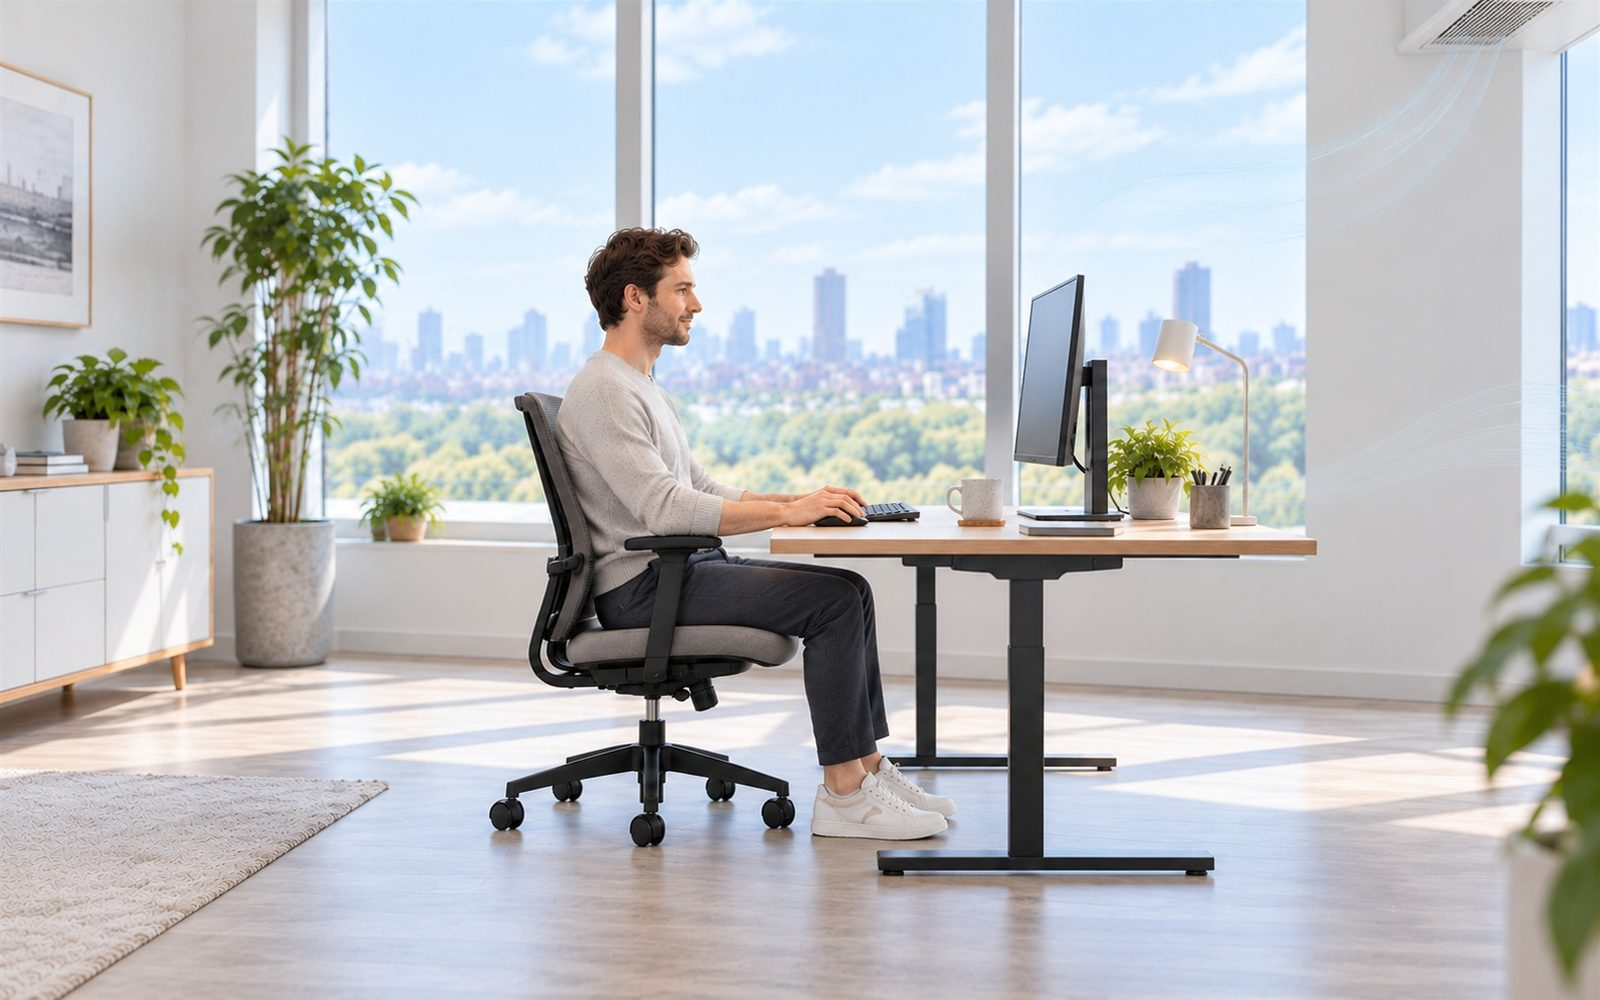
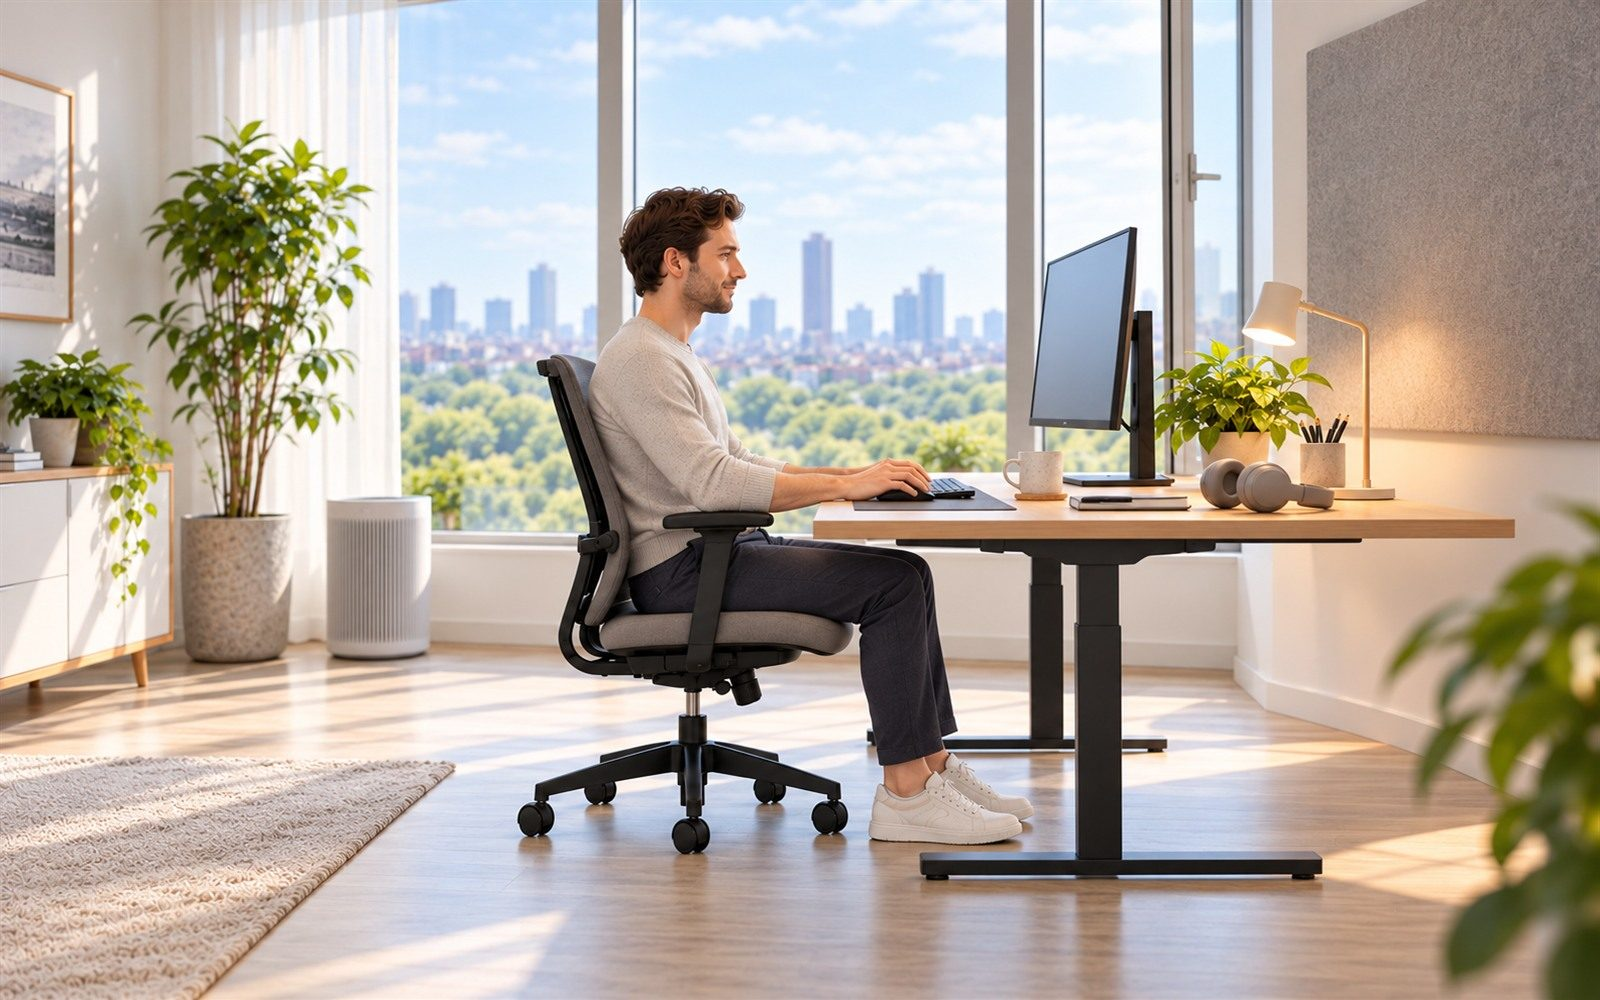
Новые фото по правкам заказчика: «Метод», шаг 05 консультации, обложка «Что такое эргономика», карточки про геймерское кресло, монитор и офис

diff --git a/design/stati-po-ergonomike.html b/design/stati-po-ergonomike.html
@@ -134,8 +134,8 @@
     <div class="dposts dlib-grid">
       <a href="chto-takoe-ergonomika.html" class="dpost" data-topic="mesto">
         <picture class="dpost__ph">
-          <source srcset="assets/photo/articles/chto-takoe-ergonomika.webp?v=1" type="image/webp">
-          <img src="assets/photo/articles/chto-takoe-ergonomika.jpg?v=1" alt="Человек за рабочим местом у окна: опора на спинку кресла, монитор на уровне глаз" width="1600" height="1000" loading="lazy" decoding="async">
+          <source srcset="assets/photo/articles/chto-takoe-ergonomika.webp?v=2" type="image/webp">
+          <img src="assets/photo/articles/chto-takoe-ergonomika.jpg?v=2" alt="Рабочее место у окна: человек, кресло и стол, рядом лампа, наушники, звукопоглощающая панель, очиститель воздуха и растения" width="1600" height="1000" loading="lazy" decoding="async">
         </picture>
         <div class="dpost__body">
           <div class="dpost__meta"><span class="dchip">Рабочее место</span><span class="dread"><span class="dread__ico" aria-hidden="true"><svg viewBox="0 0 16 16" fill="none" stroke="currentColor" stroke-width="1.4" stroke-linecap="round"><circle cx="8" cy="8" r="6.2"/><path d="M8 4.8V8l2.2 1.4"/></svg></span>6 мин</span></div>
@@ -158,8 +158,8 @@
       </a>
       <a href="../statya.html" class="dpost" data-topic="mebel">
         <picture class="dpost__ph">
-          <source srcset="assets/photo/workplace.webp" type="image/webp">
-          <img src="assets/photo/workplace.jpg" alt="Рабочее место: офисное кресло, регулируемый стол, монитор" width="1600" height="1000" loading="lazy" decoding="async">
+          <source srcset="assets/photo/articles/geymerskoe-kreslo.webp?v=1" type="image/webp">
+          <img src="assets/photo/articles/geymerskoe-kreslo.jpg?v=1" alt="Красно-черное геймерское кресло с ковшеобразной спинкой и подушками на ремнях" width="1600" height="1000" loading="lazy" decoding="async">
         </picture>
         <div class="dpost__body">
           <div class="dpost__meta"><span class="dchip">Мебель и&nbsp;оборудование</span><span class="dread"><span class="dread__ico" aria-hidden="true"><svg viewBox="0 0 16 16" fill="none" stroke="currentColor" stroke-width="1.4" stroke-linecap="round"><circle cx="8" cy="8" r="6.2"/><path d="M8 4.8V8l2.2 1.4"/></svg></span>5 мин</span></div>
@@ -194,8 +194,8 @@
       </a>
       <a href="../statya.html" class="dpost" data-topic="mesto" data-tmp>
         <picture class="dpost__ph">
-          <source srcset="assets/photo/adjust.webp" type="image/webp">
-          <img src="assets/photo/adjust.jpg" alt="Настройка высоты монитора на рабочем месте" width="1600" height="1000" loading="lazy" decoding="async">
+          <source srcset="assets/photo/articles/monitor.webp?v=1" type="image/webp">
+          <img src="assets/photo/articles/monitor.jpg?v=1" alt="Настройка высоты тонкого монитора на кронштейне" width="1600" height="1000" loading="lazy" decoding="async">
         </picture>
         <div class="dpost__body">
           <div class="dpost__meta"><span class="dchip">Рабочее место</span><span class="dread"><span class="dread__ico" aria-hidden="true"><svg viewBox="0 0 16 16" fill="none" stroke="currentColor" stroke-width="1.4" stroke-linecap="round"><circle cx="8" cy="8" r="6.2"/><path d="M8 4.8V8l2.2 1.4"/></svg></span>4 мин</span></div>
@@ -217,8 +217,8 @@
       </a>
       <a href="../statya.html" class="dpost" data-topic="kompanii" data-tmp>
         <picture class="dpost__ph">
-          <source srcset="assets/photo/workshop.webp" type="image/webp">
-          <img src="assets/photo/workshop.jpg" alt="Сотрудники на занятии по эргономике" width="1600" height="1000" loading="lazy" decoding="async">
+          <source srcset="assets/photo/articles/ofis.webp?v=1" type="image/webp">
+          <img src="assets/photo/articles/ofis.jpg?v=1" alt="Современный офис: сотрудники работают за столами с мониторами" width="1600" height="1000" loading="lazy" decoding="async">
         </picture>
         <div class="dpost__body">
           <div class="dpost__meta"><span class="dchip">Для компаний</span><span class="dread"><span class="dread__ico" aria-hidden="true"><svg viewBox="0 0 16 16" fill="none" stroke="currentColor" stroke-width="1.4" stroke-linecap="round"><circle cx="8" cy="8" r="6.2"/><path d="M8 4.8V8l2.2 1.4"/></svg></span>6 мин</span></div>

diff --git a/design/metod-simkina.html b/design/metod-simkina.html
@@ -90,6 +90,9 @@
 <!-- Слева название метода, подзаголовок и два абзаца; под ними — базовый
      принцип эргономики белой плашкой с черточкой (как на странице курса).
      Справа фото человека за рабочим местом: эргономика начинается с человека.
+     Кадр method-workplace (01.11.2026, по правкам заказчика: монитор прямо, ноутбук сбоку,
+     предплечья на столе, поясничная подушка тоньше и выше) заменил method-hero;
+     описание ниже — про исходный кадр.
      Кадр method-hero (20.10.2026) — поза по методу: опора под поясницу, ноги
      рядом, корпус вплотную к столу, предплечья с опорой на столешницу,
      положение рук относительно корпуса прежнее, отдельная клавиатура,
@@ -108,8 +111,8 @@
       </div>
       <div class="dcohero__media" data-rv style="--d:.06s">
         <picture>
-          <source srcset="assets/photo/method-hero.webp?v=2" type="image/webp">
-          <img src="assets/photo/method-hero.jpg?v=2" alt="Женщина работает за столом: спина с опорой под поясницу, корпус придвинут к столу, предплечья лежат на столешнице, ноги рядом на полу, отдельная клавиатура, ноутбук на подставке" width="1600" height="1000" fetchpriority="high">
+          <source srcset="assets/photo/method-workplace.webp?v=1" type="image/webp">
+          <img src="assets/photo/method-workplace.jpg?v=1" alt="Женщина работает за столом: спина с опорой под поясницу, корпус придвинут к столу, предплечья лежат на столешнице, ноги рядом на полу, клавиатура придвинута, монитор прямо перед ней, ноутбук сбоку на подставке" width="1600" height="1000" fetchpriority="high">
         </picture>
       </div>
     </div>

diff --git a/design/konsultaciya-po-ergonomike.html b/design/konsultaciya-po-ergonomike.html
@@ -482,7 +482,7 @@
           <p>Во&nbsp;время консультации вы&nbsp;меняете настройки кресла, положение оборудования и&nbsp;другие параметры, а&nbsp;мы&nbsp;сразу оцениваем результат.</p>
         </div>
         <div class="dpickr__panel" role="tabpanel" id="stg-5" aria-labelledby="stg-t5">
-          <figure class="dshot dpickr__ph"><img src="assets/photo/process/05.jpg?v=1" alt="Настроенное рабочее место по итогам консультации" width="1600" height="1200" loading="lazy" decoding="async"></figure>
+          <figure class="dshot dpickr__ph"><img src="assets/photo/process/05.jpg?v=2" alt="Настроенное рабочее место: монитор прямо перед глазами, ноутбук сбоку, предплечья с опорой на стол" width="1600" height="1200" loading="lazy" decoding="async"></figure>
           <span class="dpickr__n">05 / 05</span>
           <h3>Определяем дальнейшие шаги</h3>
           <p>По&nbsp;итогам становится понятно, что&nbsp;можно оставить, что&nbsp;стоит изменить и&nbsp;требуется ли дополнительное оборудование.</p>

diff --git a/design/chto-takoe-ergonomika.html b/design/chto-takoe-ergonomika.html
@@ -102,8 +102,8 @@
       </div>
       <div class="dcohero__media" data-rv style="--d:.06s">
         <picture>
-          <source srcset="assets/photo/articles/chto-takoe-ergonomika.webp?v=1" type="image/webp">
-          <img src="assets/photo/articles/chto-takoe-ergonomika.jpg?v=1" alt="Человек за рабочим местом у окна: опора на спинку кресла, монитор на уровне глаз" width="1600" height="1000" decoding="async">
+          <source srcset="assets/photo/articles/chto-takoe-ergonomika.webp?v=2" type="image/webp">
+          <img src="assets/photo/articles/chto-takoe-ergonomika.jpg?v=2" alt="Рабочее место у окна: человек, кресло и стол, рядом лампа, наушники, звукопоглощающая панель, очиститель воздуха и растения" width="1600" height="1000" decoding="async">
         </picture>
       </div>
     </div>
